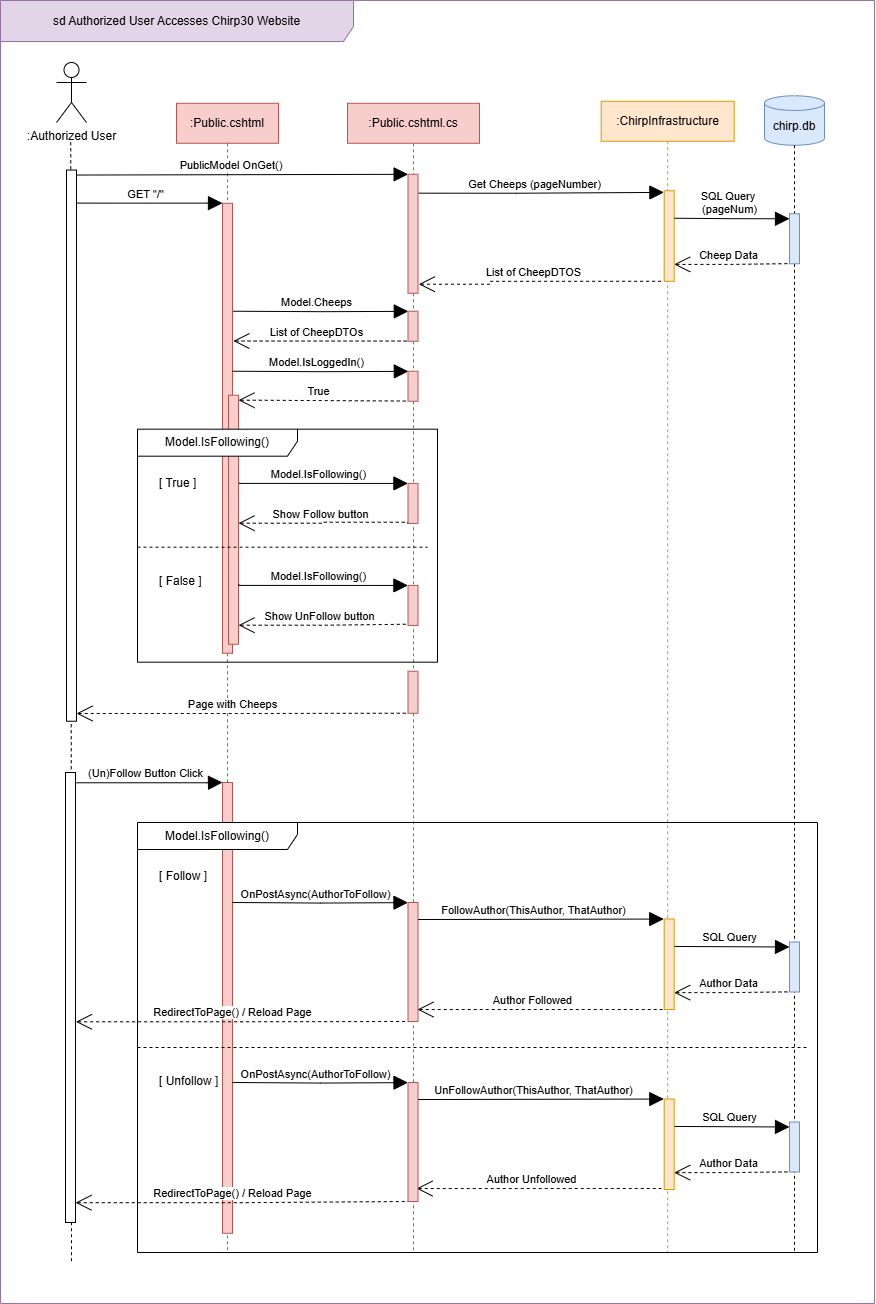
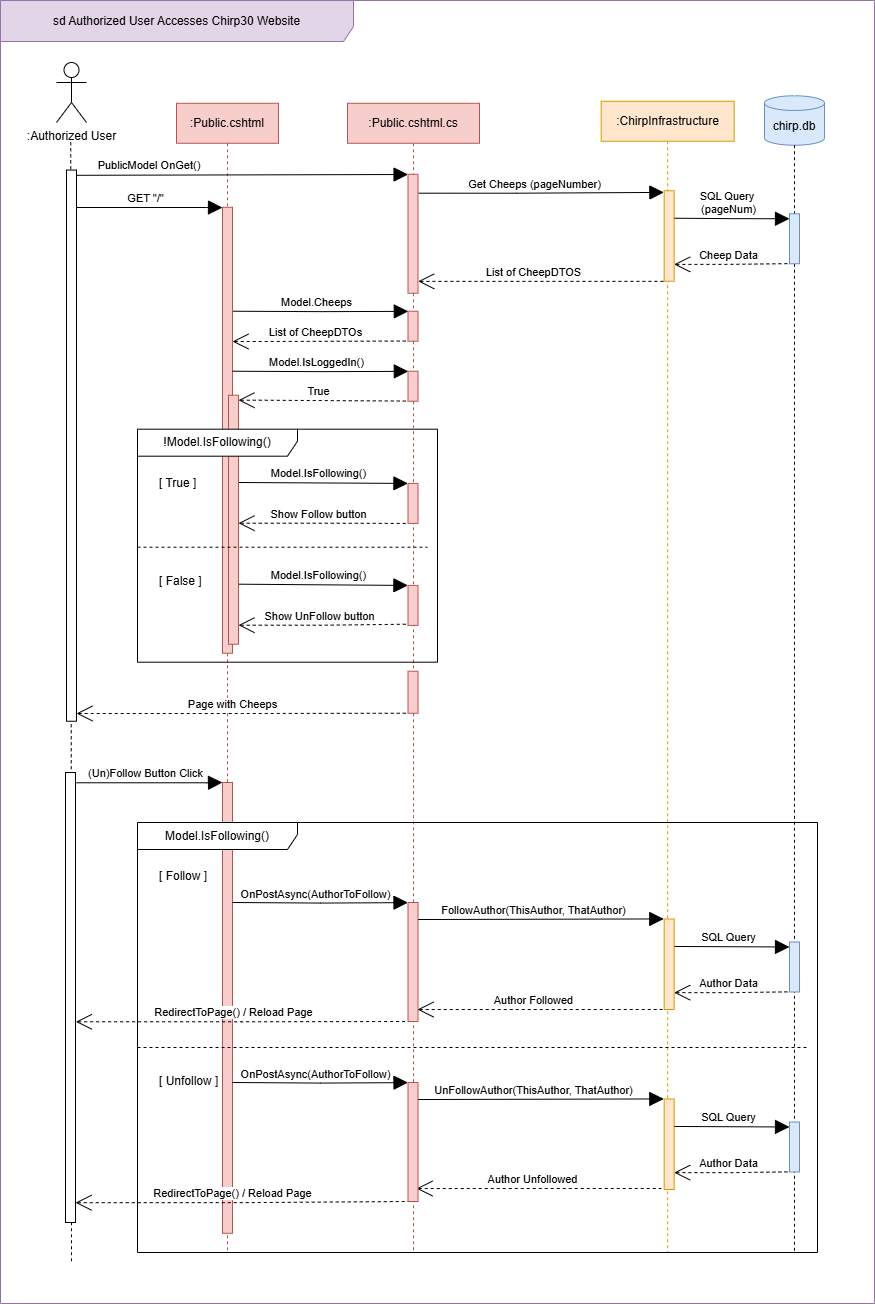
Report: Cat.md and diagrams updated

diff --git a/docs/Cat.md b/docs/Cat.md
@@ -2,22 +2,31 @@
 
 ## Sequence Diagram of Unauthorized User
 
-Below is a diagram showing the sequence of steps for an unauthorized user[^userStatus] attempting to access the root web page, Public Timeline on the chirp30 application (https://bdsagroup30chirpremotedb.azurewebsites.net/). 
+Below is a diagram showing the sequence of steps for an unauthorized user[^userStatus] attempting to access the root web page, *Public Timeline* on the Chirp30 application[^chirpLink]. 
 
-The diagram has 5 lifelines, Unauthorized User, PublicTimeline, ChirpInfrastructure, ChirpDBContext, and chirp.db. The third one, ChirpInfrastructure, represents classes contained in this layer of the implemented Onion Architecture, specifically the two classes `CheepService.cs` and `CheepRepository.cs`. Note that while `ChirpDBContext.cs` is also a part of this onion layer, eventhough it has been made explicit here for the purpose of showing how this is the class actually responsible for accessing the database.
+The diagram below has five lifelines, *Unauthorized User*, *Public*[^publicTimeline], *ChirpInfrastructure*, *ChirpDBContext*, and `chirp.db`. The third one, *ChirpInfrastructure*, represents all classes contained in this layer of the implemented Onion Architecture, specifically the two classes `CheepService.cs` and `CheepRepository.cs`. Note that while `ChirpDBContext.cs` is also a part of this onion layer, eventhough it has been made explicit here for the purpose of showing how this is the class actually responsible for accessing the database.
 
-![Illustration of sequential calls to get a rendered public timeline page](../docs/images/BDSA-sequence-diagramUnauthorized.png)
+![Illustration of sequential calls to get a rendered *Public Timeline* page](../docs/images/BDSA-sequence-diagramUnauthorized.png)
 
-Description of *Sequence Diagram of Unathorized User* in case of technical issues or otherwise:
+[^chirpLink]: https://bdsagroup30chirpremotedb.azurewebsites.net/
 
-The first action made by the unauthorized user is an HTTP `GET` request to the root endpoint `"/"`, which is received by the PublicTimeline object (containing the two classes `PublicTimeline.cshtml` and `PublicTimeline.cshtml.cs`). This is followed with a `GetCheeps(pageNumber)` call to `ChirpInfrastructure` to get the necessary cheeps to display on the Public Timeline. The integer variable `pageNumber` is transported all the way to `ChirpDBContext` which uses it to ensure only the correct 32 cheeps are saved and returned. After `ChirpInfrastructure` has received the `GetCheeps(pageNumber)` call, it calls a method on itself `ReadCheeps(pageNumber)` from which the call to make Cheep Data Transferable Objects (CheepDTOs) in `ChirpDBContext` begins. Finally, `ChirpDBContext` accesses `chirp.db` to get the relevant data before it is all sent back through the objects. 
+[^publicTimeline]: The *:Public* object is both a combination of the two classes `Public.cshtml` and `Public.cshtml.cs` and represents the overall attempt to access the *Public Timeline*.
+
+Description of *Sequence Diagram of Unauthorized User* in case of technical issues or otherwise:
+
+The first action made by the unauthorized user is an HTTP `GET` request to the root endpoint `"/"`, which is received by the *Public* object (containing the two classes `Public.cshtml` and `Public.cshtml.cs`). This is followed with a `GetCheeps(pageNumber)` call to *ChirpInfrastructure* to get the necessary Cheeps to display on the Public Timeline. The integer variable `pageNumber` is transported all the way to *ChirpDBContext* which uses it to ensure only the correct 32 Cheeps are saved and returned. After *ChirpInfrastructure* has received the `GetCheeps(pageNumber)` call, it calls a method on itself `ReadCheeps(pageNumber)` from which the call to make Cheep Data Transferable Objects (CheepDTOs) in `ChirpDBContext` begins. Finally, *ChirpDBContext* accesses `chirp.db` to get the relevant data before it is all sent back through the objects. 
 
 [^userStatus]: The report task description used the word "unauthorized" to likely describe "a user who is not logged in (has not received extra authorization)", even though it could also be interpreted as "a user who does not have the authority to access the webpage (no authorization at all)". While the last interpretation could also be a fun diagram to look at, we went with the first interpretation as that is what the course material (Andrew Lock, *ASP.NET Core in Action* (Shelter Island: Manning Publications Co. 2023)) seem to suggest. 
 
 ## Sequence Diagram of Authorized User:
-The second diagram focuses on an changes in the program when a user is authenticated (logged in). The total number of lifelines remains the same, although "ChirpDBContext" lifeline has been absorbed into "ChirpInfrastructure" lifeline and the "Public" lifeline has been split into two, namely *Public.cshtml* and *Public.cshtml.cs*. Note that the latter object is shown to occur first, the two are called simultaneously through the act of a third party object not shown here. The have been split to start separately as the specific calls vary (Note: I know this is not a good "argument" at all, but I have reached my limit of thinking, so I am very open to suggestions. Also I have no direct proof they happen simultaneously, only that I looked hard to try and figure out which one was called first without luck).
+The second diagram focuses on which changes occur in the program when a user has been authenticated (logged in). The total number of lifelines remains the same, although the *ChirpDBContext* lifeline has been absorbed into *ChirpInfrastructure* lifeline and the *Public* lifeline has been split into two, namely `Public.cshtml` and `Public.cshtml.cs`. Note that although the latter object is shown to occur first, the two objects are started concurrently. 
 
-![Illustration of sequential calls to get a rendered public timeline page](../docs/images/BDSA-sequence-diagramAuthorized.png)
+![Illustration of sequential calls to get a rendered Public Timeline page for a user who is logged in](../docs/images/BDSA-sequence-diagramAuthorized.png)
+
+Description of *Sequence Diagram of Authorized User* in case of technical issues or otherwise:
+
+The first action made by the *Authorized User* is an HTTP request to the website, which starts two calls. An `OnGet()` call to the *Public.cshtml.cs* lifeline and a `GET` request received by the *Public.cshtml* lifeline. The first call, `OnGet()` starts a process matching the process shown in the *Sequence Diagram of Unauthorized User*. After *Public.cshtml.cs* receives the list of `CheepDTOs` from *ChirpInfrastructure*, it is given to *Public.cshtml* who then checks if the *User* is logged in or not through the model in *Public.cshtml.cs*. If the *User* is logged in, which is the case for this *Authorized User*, an alternative box is placed, which shows the two cases of if a *User* is following the owner of a cheep or not. If the *Authorized User* is not following the other user, then the *Follow* button will be shown, otherwise the *Unfollow* button will be shown. A similar alternative box appears for when the *Follow*/*Unfollow* button is clicked.
+
 
 # Team work
 
@@ -25,22 +34,20 @@ The second diagram focuses on an changes in the program when a user is authentic
 
 Two project boards were made for group 30's `Chirp!` repository. One containing issues made from official task descriptions titled `ITU-BDSA2024-GROUP30 Chirp`, and a second called `Improvement board` for all the things that needed improving, fixing, or general nice to implement, but which weren't part of any given task description. 
 
-### Official Task Project Board:
+### Official Task Project Board: CHANGES ARE WAITING
 
-As shown in the screenshot below[^projectBoardDate], a total of 110 issues and pull requests have been completed and placed in the **Done** column. That leaves a total of 10 issues that have not been completed. 8 of which have not been started and sits in the two columns **No Status** and **Todo**. The final 2 issues are distributed equally in **In Progress** and in **Needs TA help**. The latter category was created to put away a difficult issue and work on other issues, until it was possible to get a TAs help with the stumped one.
+As shown in the screenshot below[^projectBoardDate], a total of 110 issues and pull requests have been completed and placed in the **Done** column. That leaves a total of 10 issues that have not been completed, six of which are not started and waiting in the **Todo** column to be assigned. Three of the final four issues are in the **In Progress** column and the last one is in **Needs TA help**. This extra category was created to temporarily put away difficult issues in favour of working on easier issues, until it would be possible to get a TAs help with the stumped one.
 
 ![Illustration of group 30 main GitHub project board](../docs/images/BDSA-mainProjectBoard.png)
 
-Among the issues which have not been started, are two missing features. The "About Me" page containing all logged information of the logged in user, and the "Forget Me" button which deletes the registered user from the database and from other users' follow lists. 
 
-The unresolved issues span from week 7 up till week 12, excluding the weeks 8 and 10. Half of the non-started issues are related to testing, with one issue being testing the "Forget Me" feature which was not implemented. 
-(Note: help rewrite this section to 'flow' better and such)
+Overall, only one feature is left un-implemented. Session 13's "Wild Style" never got any issues on GitHub and is further described in the following section. The issues placed in **Todo** are primarily related to testing, orignating from session 7 up till session 12 (excluding the weeks 8 and 10). 
 
-[^projectBoardDate]: Taken on December 15th 2024.
+[^projectBoardDate]: Taken on December 16th 2024.
 
 #### Wild Style - Hate-Meter and Love-Meter
 
-A final misisng feature which has no related issues whatsoever, is the wild style feature from session 13. Below is a mock-up showing an inclusion of a "Love-Meter" and a "Hate-Meter" where logged in users can click either the whole heart icon or the broken heart icon to give *love* or *hate* respectively to a cheep. There would be no limit as to how much *love* or *hate* a single user can give per cheep. A bonus feature would be when the "Hate-Meter" is fully filled and the cheeps author has their account deleted from the application. The user would be free to re-register an account, but all of their follows and cheeps would be gone.
+A final missing feature with no related issues whatsoever, is the wild style feature from session 13. Below is a mock-up showing a possible inclusion of a "Love-Meter" and a "Hate-Meter" where logged in users can click either the whole heart icon or the broken heart icon to give *love* or *hate* respectively to a Cheep. There would be no limit on how much *love* or *hate* a single user can give per Cheep. A bonus feature would be when the "Hate-Meter" reaches maximum capacity and the Cheep's author has their account deleted from the application. The user would be free to re-register an account, but all of their follows and Cheeps would be gone.
 
 ![Mockup illustration of implemented Hate-Meter and Love-Meter into Chirp project](../docs/images/BDSA-mockUpHateLoveMeter.png)
 
